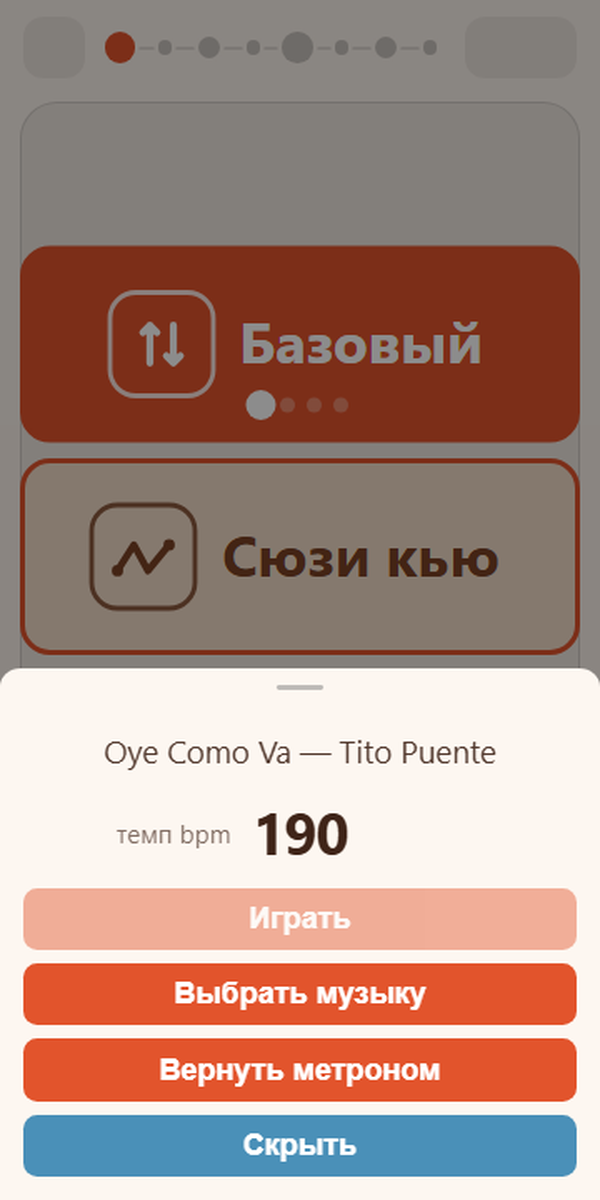
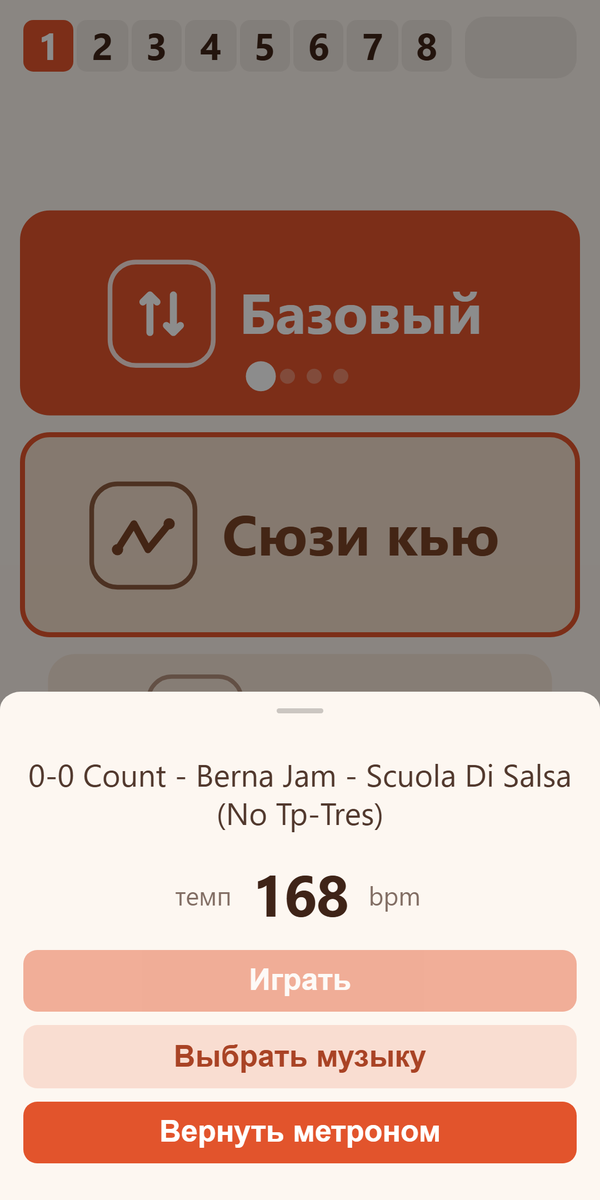
docs: счёт 1 и 5 по порядку; новые скриншоты витрины.

diff --git a/README.md b/README.md
@@ -1,6 +1,6 @@
 # Важные шаги
 
-Тренажер для отработки движений: музыкальный счёт **1…8**, вертикальная лента плашек и смена названия на долях **5** и **1**.
+Тренажер для отработки движений: музыкальный счёт **1…8**, вертикальная лента плашек и смена названия на долях **1** и **5**.
 
 **Скачать APK:** [Важные шаги](https://github.com/ilexahub/steps/releases)
 
@@ -10,7 +10,7 @@
 
 ## Как это работает
 
-Лента шагов проходит через неподвижную рамку: текущий шаг всегда крупный и по центру, следующий — под ним. Счёт в шапке — музыкальный **1…8** (акцент на 1 и 5), это не номер плашки. На **5** и **1** меняется название шага. Пуск и стоп — кнопки внизу; скорость — чип BPM.
+Лента шагов проходит через неподвижную рамку: текущий шаг всегда крупный и по центру, следующий — под ним. Счёт в шапке — музыкальный **1…8** (акцент на 1 и 5), это не номер плашки. На **1** и **5** меняется название шага. Пуск и стоп — кнопки внизу; скорость — чип BPM.
 
 **Метроном или музыка.** С листа скорости запускается клик метронома, темп можно двигать. «Выбрать музыку» открывает каталог: у трека уже свой BPM, его не крутят руками. «Играть» / пауза, при необходимости перемотка. «Вернуть метроном» выключает трек и оставляет клик. Звук клика на листе можно выключить — шаги на экране идут как раньше.
 
